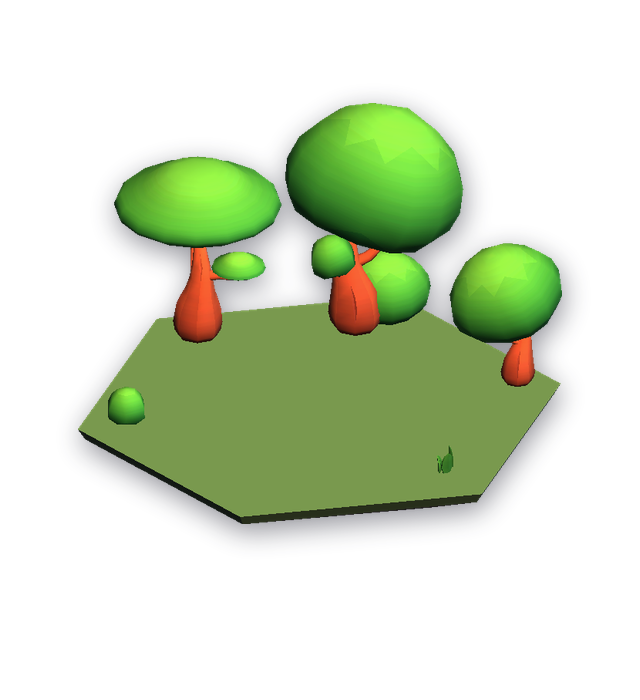
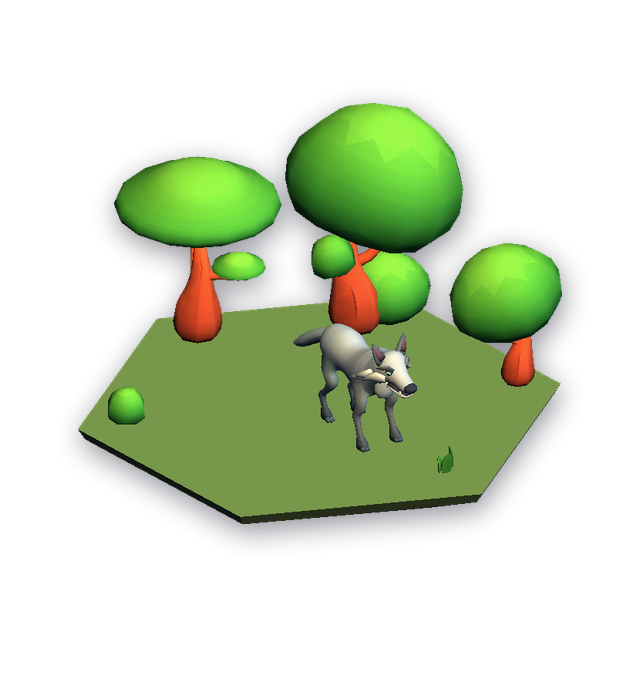
feat(cartas): lobo na ilustracao da carta Floresta
O exportador de miniaturas poe o Wolf_Common de verdade (pose do Wolf_Idle assada numa malha estatica: o
PreviewRenderUtility nao desenha SkinnedMeshRenderer) na frente das arvores, de tres quartos. Floresta_Arte.png
recomposta pelo compor_arte.py (mesmo caminho e .meta).

Changed region(s): [[0.4375, 0.45, 0.6562, 0.66]]

diff --git a/Assets/Editor/ExportarMiniaturasDeCarta.cs b/Assets/Editor/ExportarMiniaturasDeCarta.cs
@@ -47,6 +47,7 @@ public static class ExportarMiniaturasDeCarta
                 float raio = def.name == "Torre" ? 1.19f : 1.94f;
                 bool alta = def.name == "IlhaAlta";
                 AddIlha(raiz.transform, raio, alta ? 1.64f : .47f, materiais, malhas, def.name);
+                if (def.name == "Floresta") AdicionarLobo(raiz.transform, malhas);
             }
             else
             {
@@ -103,6 +104,46 @@ public static class ExportarMiniaturasDeCarta
             previa.Cleanup();
             foreach (var mat in materiais) Object.DestroyImmediate(mat);
             foreach (var mesh in malhas) Object.DestroyImmediate(mesh);
+        }
+    }
+
+    // Sprint 5B: a Floresta "faz nascer lobos" — a ilustracao mostra o lobo de verdade (Wolf_Common na pose do Wolf_Idle),
+    // na frente das arvores (que ficam no lado longe da camera), voltado de tres quartos para quem olha a carta.
+    public static readonly Vector3 PosicaoDoLobo = new Vector3(-.05f, 0f, -.55f);
+    public const float TamanhoDoLobo = 1.75f;
+
+    static void AdicionarLobo(Transform raiz, System.Collections.Generic.List<Mesh> malhas)
+    {
+        var modelo = AssetDatabase.LoadAssetAtPath<GameObject>("Assets/Modelos/Inimigos/Wolf_Common/Wolf_Common.fbx");
+        if (modelo == null) return;
+        // Pose do Wolf_Idle assada numa malha estatica: o PreviewRenderUtility nao desenha SkinnedMeshRenderer.
+        var instancia = Object.Instantiate(modelo);
+        instancia.hideFlags = HideFlags.HideAndDontSave;
+        try
+        {
+            foreach (var clipe in AssetDatabase.LoadAllAssetsAtPath("Assets/Modelos/Inimigos/Wolf_Common/Wolf_Common_Animacoes.fbx"))
+                if (clipe is AnimationClip c && c.name == "Wolf_Idle") c.SampleAnimation(instancia, .4f);
+            var smr = instancia.GetComponentInChildren<SkinnedMeshRenderer>();
+            var malha = new Mesh { name = "Lobo da floresta" };
+            smr.BakeMesh(malha, true);
+            malhas.Add(malha);
+            var lobo = new GameObject("Lobo da floresta");
+            lobo.transform.SetParent(raiz, false);
+            var corpo = new GameObject("Corpo");
+            corpo.transform.SetParent(lobo.transform, false);
+            corpo.transform.localPosition = instancia.transform.InverseTransformPoint(smr.transform.position);
+            corpo.transform.localRotation = Quaternion.Inverse(instancia.transform.rotation) * smr.transform.rotation;
+            corpo.AddComponent<MeshFilter>().sharedMesh = malha;
+            corpo.AddComponent<MeshRenderer>().sharedMaterials = smr.sharedMaterials;
+            Bounds b = VisualDeIlha.LimitesLocais(lobo.transform);
+            float escala = TamanhoDoLobo / Mathf.Max(b.size.x, b.size.y, b.size.z);
+            lobo.transform.localScale = Vector3.one * escala;
+            lobo.transform.localPosition = PosicaoDoLobo;
+            lobo.transform.localRotation = Quaternion.LookRotation(new Vector3(-.21f, 0f, -1.13f), Vector3.up);
+        }
+        finally
+        {
+            Object.DestroyImmediate(instancia);
         }
     }
 
